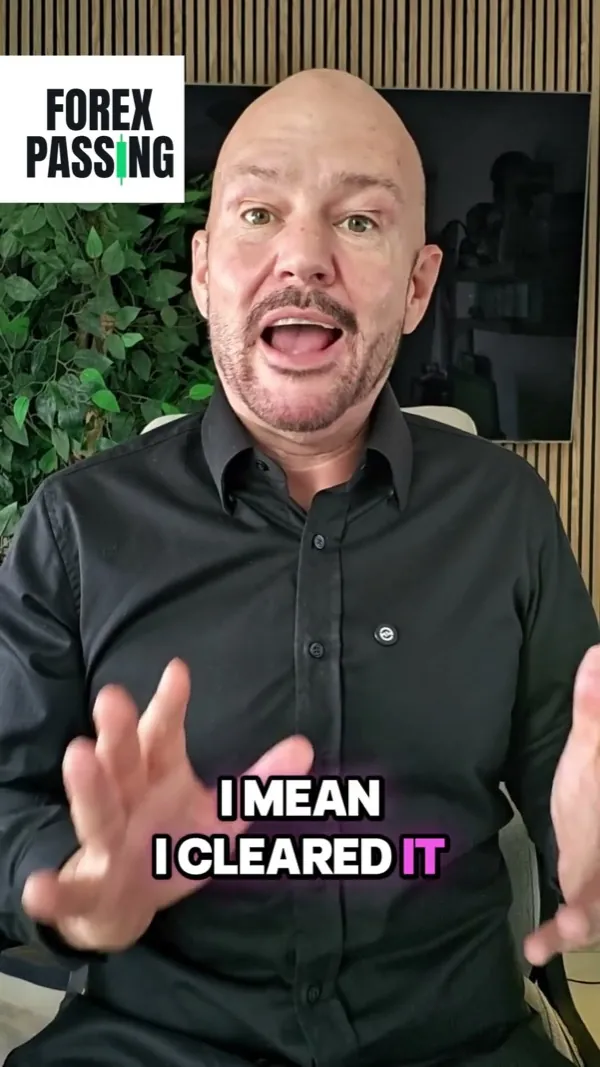
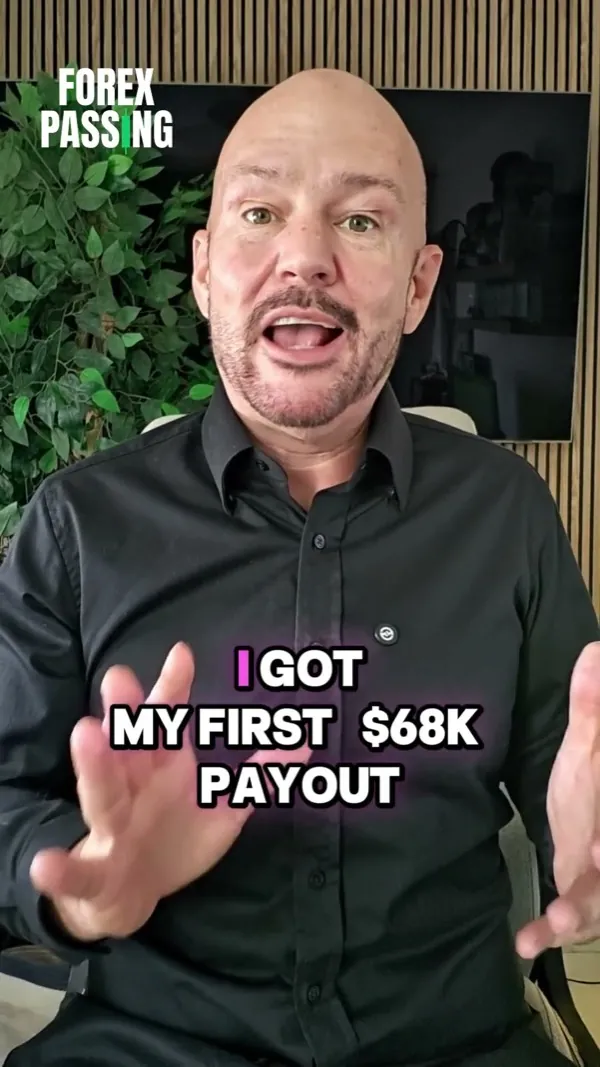
Poprawny klip Mike'a, bez wymyslonych slotow obok niego
Link do Shorta byl bledny (0xt3jpPtnvc). Wlasciwy to OMzdaKxAM7g, plakat
przegenerowany z oardefault.jpg tego nagrania — kadr ma napis "I GOT MY FIRST
$68K PAYOUT", wiec zgadza sie z kwota i historia na karcie.

Trzy pozostale wpisy (Marcus, Tomas, Priya) znikaja na prosbe wlasciciela.
To byli zmyśleni ludzie z niewyplaconymi kwotami, stojacy w tej samej siatce
co certyfikaty Pro Traders Funding ciagniete z publicznego API — czytelnik nie
mial jak ich odroznic. Zostaje jedno nagranie, ktore faktycznie istnieje.

Mechanizm pustego slotu ("CLIP BEING FILMED") zostaje w komponencie: to
udokumentowany stan typu Testimonial i jedyny uczciwy sposob trzymania miejsca
na klip, ktory sie kreci. Usuniete sa dane, nie mozliwosc.

Siatka dostaje gorny limit szerokosci kolumny zamiast 1fr — przy jednej karcie
rozciagnieta kolumna dalaby kadr 9:16 o wysokosci 1800px. Teraz 300px i do
srodka na desktopie, pelna szerokosc na telefonie, dwie w rzedzie gdy wroci
wiecej klipow.

diff --git a/STRONA/src/data/testimonials.ts b/STRONA/src/data/testimonials.ts
@@ -1,16 +1,15 @@
 // Client video testimonials for the money page.
 //
-// ⚠ UNVERIFIED CONTENT. The entries without a `videoId` are pure placeholders —
-// those people do not exist and those payouts did not happen. They were written
-// to fill the layout until clips are recorded, on an explicit owner decision,
-// and each one renders as a slot that says it is waiting for a recording.
+// ⚠ UNVERIFIED CONTENT. The published clip is a scripted read, not a vetted
+// client interview: the speaker works from a template and never states a name of
+// his own. So the name and the figure below are the claim made in the video, not
+// something anyone checked. That matters because this card sits on the same page
+// as the Pro Traders Funding certificates, which are real and pulled from the
+// firm's public API by bin/sync-payouts.mjs — a reader cannot tell the two apart.
 //
-// The published clip is a scripted read, not a vetted client interview: the
-// speaker works from a template and never states a name of his own. So the name
-// and the figure below are the claim made in the video, not something anyone
-// checked. That matters because these cards sit on the same page as the Pro
-// Traders Funding certificates, which are real and pulled from the firm's public
-// API by bin/sync-payouts.mjs — a reader cannot tell the two apart.
+// Only filmed clips belong here — no invented people, no payouts nobody
+// received. An entry without a `videoId` renders as a slot saying a recording is
+// on the way, which is the only honest way to hold space for one.
 //
 // To publish one: drop the YouTube id into `videoId` and save the vertical frame
 // as a local `poster`. Nothing is requested from YouTube until the reader
@@ -36,39 +35,12 @@ export type Testimonial = {
 
 export const TESTIMONIALS: Testimonial[] = [
   {
-    videoId: '0xt3jpPtnvc',
+    videoId: 'OMzdaKxAM7g',
     poster: '/testi-mike.webp',
     name: 'Mike',
     payoutUsd: 68000,
     tags: ['Zero background', '$200K evaluation', 'Scaled up'],
     story:
       'Six months ago Mike had never touched a prop account and could not have told you what a pip was. He took a $200K evaluation, cleared it, and the first payout came back at $68,000. He paid the split, scaled straight into a larger account, and says he spent the whole time waiting for a catch that never came.',
-  },
-  {
-    videoId: '',
-    poster: '',
-    name: 'Marcus',
-    payoutUsd: 5100,
-    tags: ['Full-time job', 'No time to trade', 'Hands-off'],
-    story:
-      'Marcus works six days a week and never had the hours to learn charting properly. He bought a $100K evaluation and left it with the desk from the first day. His first payout came to $5,100.',
-  },
-  {
-    videoId: '',
-    poster: '',
-    name: 'Tomas',
-    payoutUsd: 12400,
-    tags: ['Business owner', '$400K evaluation', 'Talked out of it'],
-    story:
-      'Tomas went straight for the largest size we run and was told by everyone around him that it was a bad idea. He took a $12,400 payout, paid the 30% without any drama, and asked about the next account the same week.',
-  },
-  {
-    videoId: '',
-    poster: '',
-    name: 'Priya',
-    payoutUsd: 3450,
-    tags: ['Passed alone', 'Blew it alone', 'Back with the desk'],
-    story:
-      'Priya passed an evaluation by herself and lost the funded account three weeks later on one bad afternoon. She bought another and handed it over rather than repeat it. $3,450 released so far.',
   },
 ]

diff --git a/STRONA/src/pages/site.css b/STRONA/src/pages/site.css
@@ -575,11 +575,16 @@ html{scroll-behavior:smooth}
 .mm-vsl-bar-pct{font-size:12px;font-weight:800;min-width:34px;text-align:right}
 
 /* ---- client video testimonials (data/testimonials.ts) ------------------- */
-.mm-testi-grid{display:grid;grid-template-columns:repeat(auto-fit,minmax(230px,1fr));gap:20px;margin-top:38px}
-/* Two across on a phone. A 9:16 card is over 600px tall at this width, so one
-   per row turns four of them into a screen and a half of scrolling each. */
+/* Columns are capped rather than 1fr: with a single clip published, a stretching
+   track would hand one card the full 1032px and a 9:16 frame 1800px tall. Capped
+   and centred, the count can change without the layout falling apart. */
+.mm-testi-grid{display:grid;grid-template-columns:repeat(auto-fit,minmax(230px,300px));
+  justify-content:center;gap:20px;margin-top:38px}
+/* Two across on a phone once there are enough to fill a row — a 9:16 card runs
+   over 600px tall, so one per row would be a screen and a half of scrolling
+   each. A lone card keeps the full width instead of sitting in half of one. */
 @media (max-width:620px){
-  .mm-testi-grid{grid-template-columns:repeat(2,1fr);gap:12px}
+  .mm-testi-grid{grid-template-columns:repeat(auto-fit,minmax(150px,1fr));gap:12px}
   .mm-testi-body{padding:12px 12px;gap:5px}
   .mm-testi-name{font-size:14.5px}
   .mm-testi-story{font-size:12.5px}

diff --git a/STRONA/src/pages/MoneyPage.tsx b/STRONA/src/pages/MoneyPage.tsx
@@ -642,7 +642,7 @@ export function MoneyPage() {
                 is not there. The short version is written out either way. */}
             <p className="mm-lead mm-center mm-lead-mid">
               {TESTIMONIALS.some((t) => t.videoId)
-                ? 'Real people, with the short version written under each video.'
+                ? 'The short version is written under each video.'
                 : 'The recordings are being filmed. The short version of each one is written underneath.'}
             </p>
 
